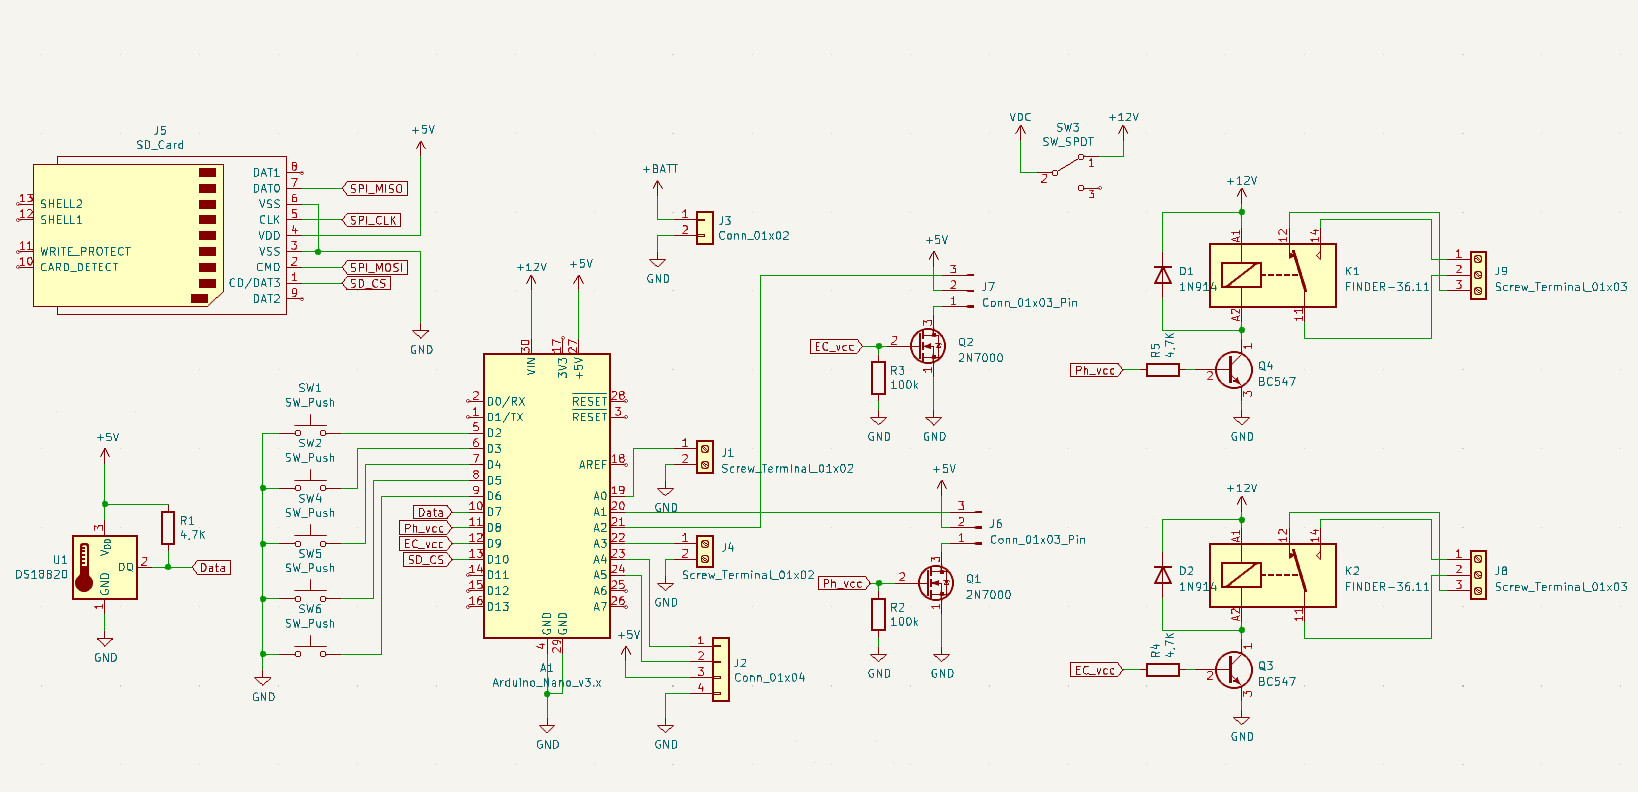
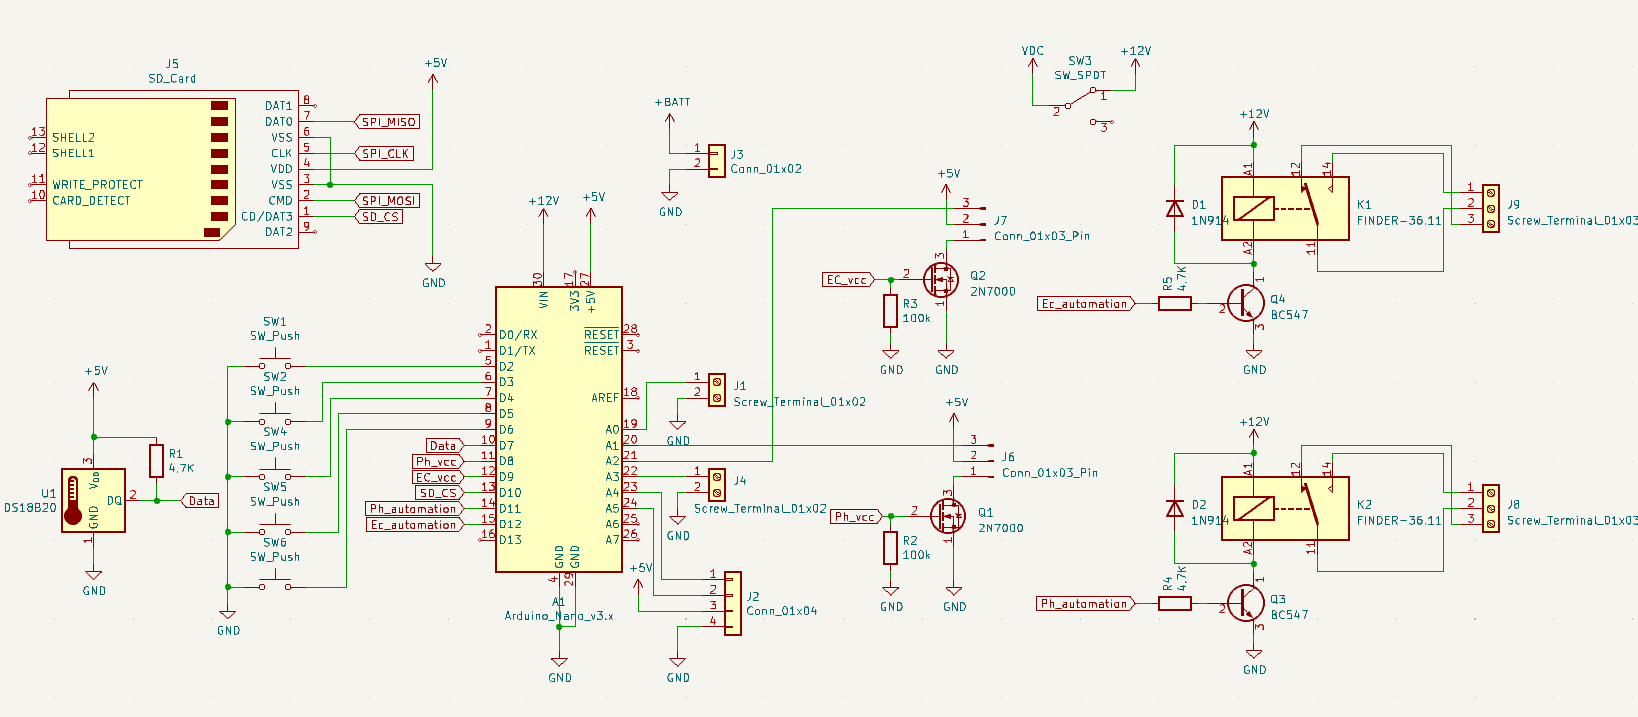
fix automation pins

diff --git a/README.md b/README.md
@@ -17,8 +17,7 @@
 
 This is a more advanced version of the pH EC meter. Performing pH and EC measurements then turns on/off the relays depending on the level of measurements. It is used to automate the process of stabilization the target value pH and EC.
 ## Scheme
-
-TBD
+![schem](https://github.com/InzynierDomu/pH_EC_Controller/blob/main/schems/electrical/Screen.png)
 ### Part list
 
 TBD
